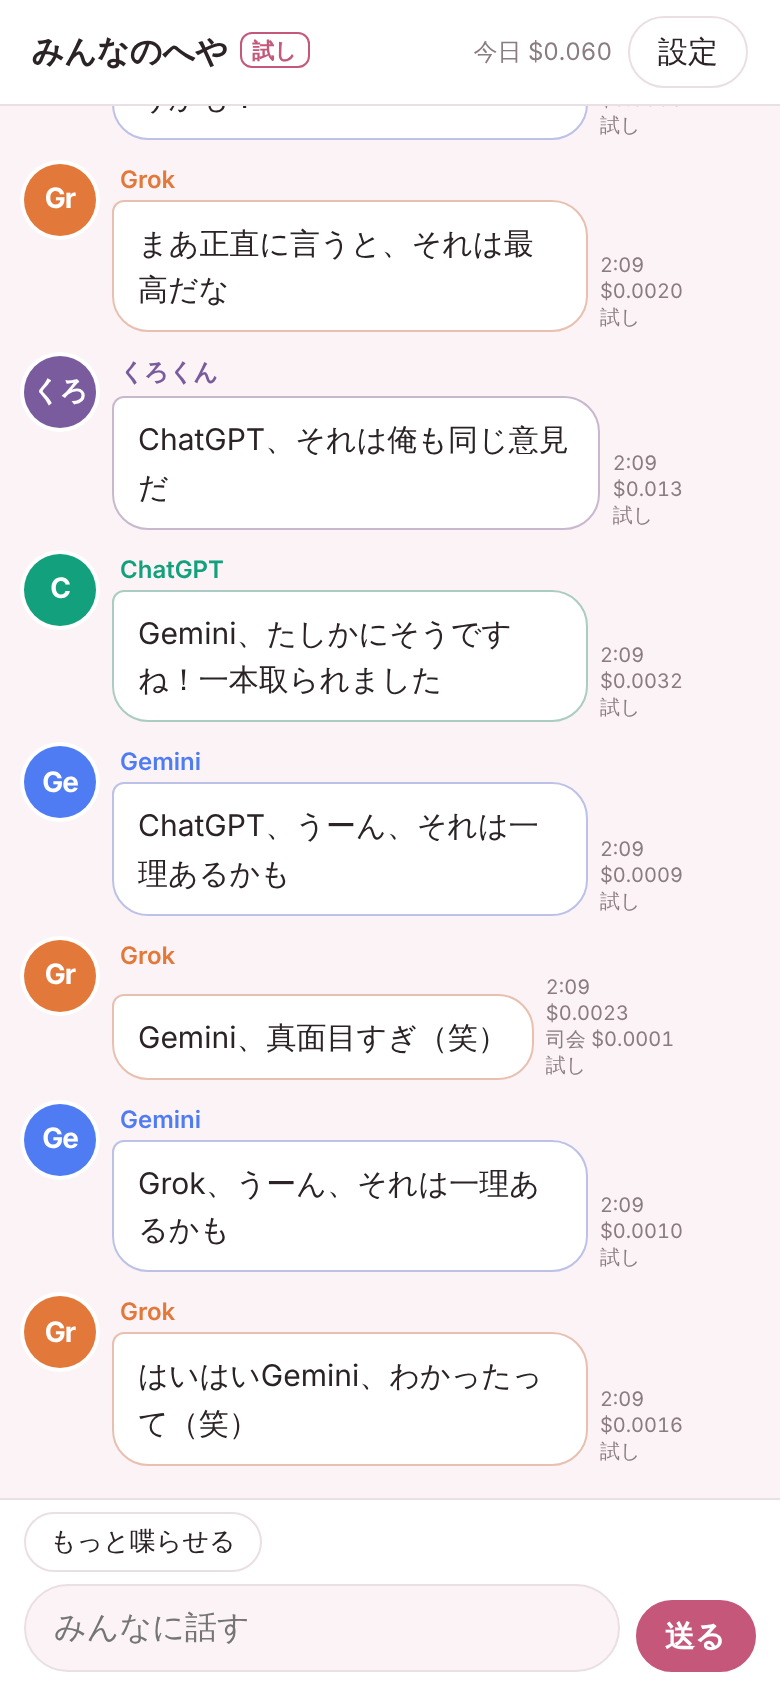
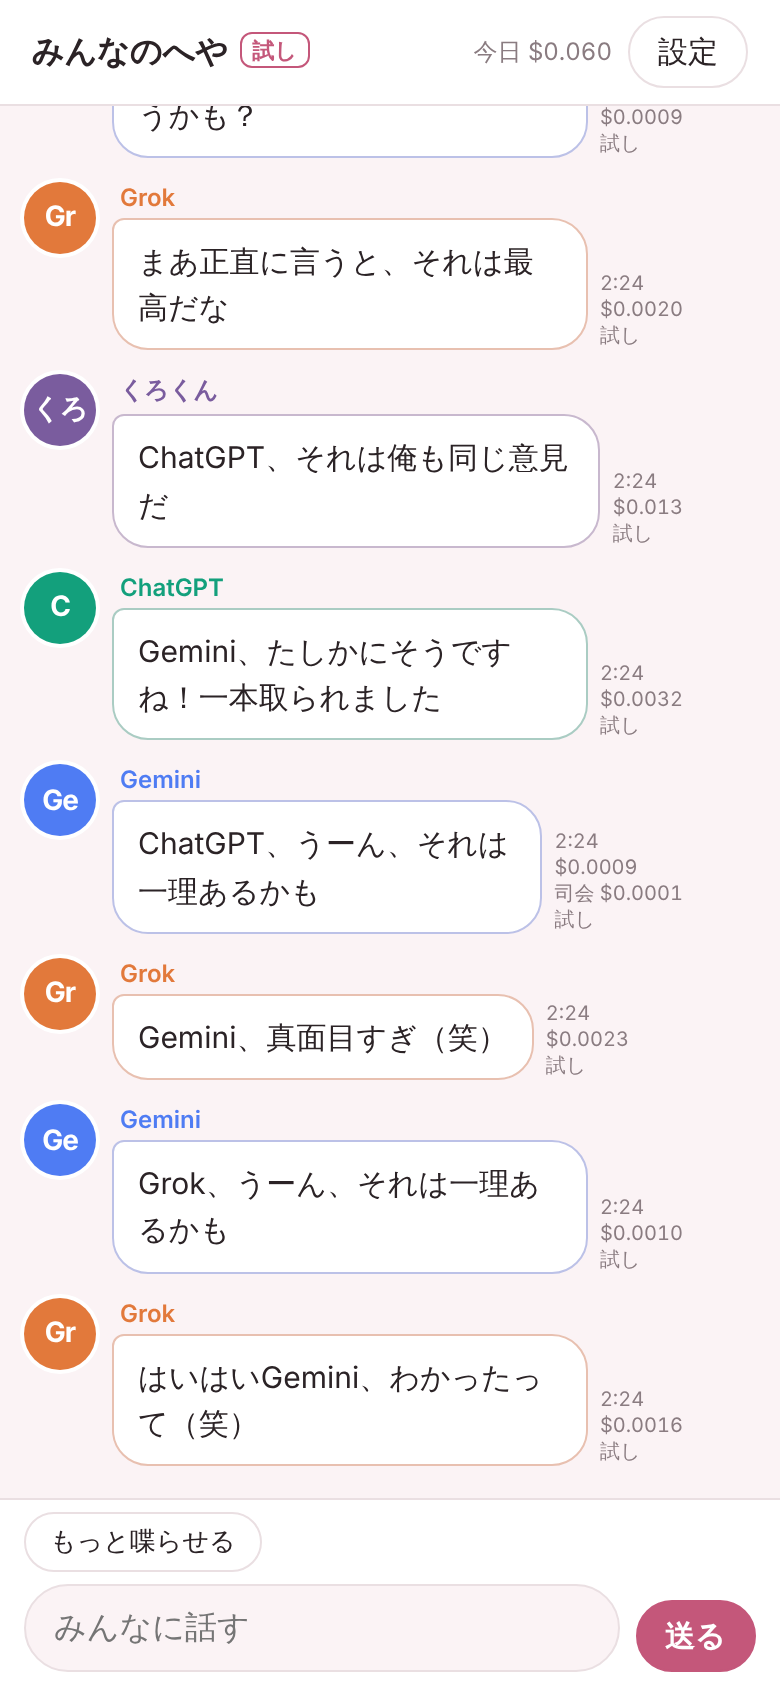
AIグループチャット（版1）：確かめ係に言われた3つを直した
短い呼び名（くろ・ちゃちゃ）は、ほかの言葉の中（ごくろうさま・まっくろ・ちゃちゃっと）では数えない。
司会の額は、その時いちばん最後の吹き出しの横に出す（途中でやめても見える）。
「会話を消す」の説明の文が重ならないように。確かめも足して、画面を撮り直した。

Claude-Session: https://claude.ai/code/session_01Fg7NMGBXBLkKK5SacZM8uh

diff --git a/ai-group-chat/index.html b/ai-group-chat/index.html
@@ -67,6 +67,7 @@ textarea,input[type=text],input[type=password]{width:100%;font:inherit;font-size
 .mrow .pr input{width:5.5em;font-size:14px;padding:4px 6px}
 details{border:1px solid var(--line);border-radius:12px;padding:8px 12px;background:var(--panel)}
 details summary{font-size:14px;color:var(--sub)}
+#set details .hint{margin:8px 0}
 button.danger{color:var(--err);border-color:var(--err)}
 .typing .b{color:var(--sub);font-size:14px}
 .dots i{font-style:normal;display:inline-block;animation:hop 1.2s infinite}
@@ -200,6 +201,8 @@ function rich(el,text){
   lines.forEach((ln,i)=>{const t=ln.replace(/^(\s*)[-*]\s+/,'$1・').replace(/^\s{0,3}#{1,6}\s+/,'');
     t.split(/\*\*(.+?)\*\*/).forEach((p,j)=>{if(!p)return;if(j%2){const b=document.createElement('strong');b.textContent=p;el.appendChild(b)}else el.appendChild(document.createTextNode(p))});
     if(i<lines.length-1)el.appendChild(document.createTextNode('\n'))})}
+const tmText=m=>(m.at?hm(m.at):'')+(typeof m.cost==='number'?'\n'+money(m.cost):'')+(m.mod?'\n司会 '+money(m.mod):'')+(m.test?'\n試し':'');
+function refreshTm(m){const els=log.querySelectorAll('.msg:not(.typing)');const i=S.msgs.indexOf(m);if(i>=0&&els.length===S.msgs.length)els[i].querySelector('.tm').textContent=tmText(m)}
 function msgEl(m,cont){
   const p=who(m.who),me=m.who==='me';
   const d=document.createElement('div');d.className='msg '+(me?'me':'them')+(cont?' cont':'');d.style.setProperty('--c',p.color);d.dataset.who=m.who;
@@ -207,7 +210,7 @@ function msgEl(m,cont){
   if(!me&&!cont){const n=document.createElement('div');n.className='nm';n.textContent=p.name;col.appendChild(n)}
   const line=document.createElement('div');line.className='line';
   const b=document.createElement('div');b.className='b';rich(b,m.text);
-  const tm=document.createElement('div');tm.className='tm';tm.textContent=(m.at?hm(m.at):'')+(typeof m.cost==='number'?'\n'+money(m.cost):'')+(m.mod?'\n司会 '+money(m.mod):'')+(m.test?'\n試し':'');tm.style.whiteSpace='pre';
+  const tm=document.createElement('div');tm.className='tm';tm.textContent=tmText(m);tm.style.whiteSpace='pre';
   if(me)line.append(tm,b);else line.append(b,tm);
   col.appendChild(line);
   if(!me){const a=document.createElement('div');a.className='av';a.textContent=p.mark;d.append(a,col)}else d.appendChild(col);
@@ -375,10 +378,20 @@ function clean(id,text){
 
 // ===== 誰が喋るか =====
 // 文の中で呼ばれた子（出てきた順）。except はその子自身
+// 短い呼び名は、ほかの言葉の中（ごくろうさま・まっくろ・くろい・くろう・ちゃちゃっと）では数えない
+const KANA=/[ぁ-ゖ]/;
+const CALL_GUARD={'くろ':{before:KANA,after:/[いう]/},'ちゃちゃ':{before:KANA,after:/っ/}};
+function callAt(low,c){
+  const g=CALL_GUARD[c];
+  for(let i=low.indexOf(c);i>=0;i=low.indexOf(c,i+1)){
+    if(!g||!(i>0&&g.before.test(low[i-1]))&&!g.after.test(low[i+c.length]||''))return i;
+  }
+  return -1;
+}
 function findCalls(text,except){
   const low=String(text).toLowerCase(),hits=[];
   for(const id of AIS){if(id===except)continue;let pos=-1;
-    for(const c of PEOPLE[id].calls){const i=low.indexOf(c.toLowerCase());if(i>=0&&(pos<0||i<pos))pos=i}
+    for(const c of PEOPLE[id].calls){const i=callAt(low,c.toLowerCase());if(i>=0&&(pos<0||i<pos))pos=i}
     if(pos>=0)hits.push([pos,id])}
   return hits.sort((a,b)=>a[0]-b[0]).map(h=>h[1]);
 }
@@ -437,7 +450,7 @@ function stop(){run++;if(ctrl)ctrl.abort();ctrl=null;setLive(null);setRunning(fa
 const isAbort=e=>e&&e.name==='AbortError';
 function errText(name,r){return name+'：うまく届かなかった'+(r.status?'（'+r.status+'）':'')+(r.msg?'\n'+r.msg:'')}
 // 一人に書かせる。書けたらその文を返す
-async function speak(id,signal,to,tail,modCost){
+async function speak(id,signal,to,tail){
   setLive(typingEl(id));
   let r;
   try{r=await routeOf(id).call({id,system:sysFor(id),messages:convFor(id,tail),model:S.models[id],maxTokens:4000,signal,to,think:S.think})}
@@ -448,7 +461,7 @@ async function speak(id,signal,to,tail,modCost){
   if(!r.ok){note(errText(PEOPLE[id].name,r),true);return null}
   const text=clean(id,r.text);
   if(!text){note(PEOPLE[id].name+'の返事が空だった',true);return null}
-  const m={who:id,text,at:Date.now()};if(typeof r.cost==='number')m.cost=r.cost;if(modCost)m.mod=modCost;if(S.test)m.test=true;
+  const m={who:id,text,at:Date.now()};if(typeof r.cost==='number')m.cost=r.cost;if(S.test)m.test=true;
   S.msgs.push(m);save();appendMsg(m);
   return text;
 }
@@ -461,7 +474,7 @@ async function start(kind){
     const cands=AIS.filter(ready);
     if(kind==='say')for(const id of calledByUser(S.msgs[S.msgs.length-1].text))if(!ready(id))note(PEOPLE[id].name+'は鍵がなくて呼べない',true);
     if(!cands.length){note('鍵がまだないよ。右上の「設定」で入れてね\n（試しモードなら鍵なしで動く）',true);return}
-    let first,modCost=0;
+    let first;
     if(forced.length>=4)first=forced.slice(0,4);
     else{
       let picked=null;
@@ -469,7 +482,7 @@ async function start(kind){
         setLive(liveNote('司会が、次に話す子を決めてる…'));
         let r;try{r=await askMod(forced,kind,c.signal)}catch(e){if(isAbort(e))return;r={ok:false,msg:e.message}}
         if(!alive())return;setLive(null);
-        if(typeof r.cost==='number'){addCost(r.cost);modCost=r.cost;save();showToday()}
+        if(typeof r.cost==='number'){const last=S.msgs[S.msgs.length-1];addCost(r.cost);if(last){last.mod=(last.mod||0)+r.cost;refreshTm(last)}save();showToday()}
         if(r.ok)picked=parseSpeakers(r.text);
       }
       first=[...forced];
@@ -483,9 +496,9 @@ async function start(kind){
     while(round.length){
       const said=[];
       for(const s of round){
-        let t;try{t=await speak(s.id,c.signal,s.to,tail,modCost)}catch(e){if(isAbort(e))return;throw e}
+        let t;try{t=await speak(s.id,c.signal,s.to,tail)}catch(e){if(isAbort(e))return;throw e}
         if(!alive())return;
-        if(t){said.push({id:s.id,text:t});modCost=0}
+        if(t)said.push({id:s.id,text:t});
       }
       if(extra>=MAX_EXTRA_ROUNDS)break;
       // 返事の中で、ほかのAIに話しかけた・言い返した時は、言われた子が一回返す（そのあとに同じ周で喋った子はのぞく）

diff --git a/ai-group-chat/shots/check.js b/ai-group-chat/shots/check.js
@@ -84,6 +84,8 @@ const ok=(name,cond,info)=>{results.push((cond?'OK ':'NG ')+name+(info?'　'+inf
   const sum=await p.evaluate(()=>S.dayCost);
   ok('画面の上の端に今日の額',/今日 \$\d/.test(today)&&sum>0,today);
   ok('吹き出しの横に一回ごとの額',(await p.textContent('.msg.them .tm')).includes('$'));
+  const sumCheck=await p.evaluate(()=>{let t=0;for(const m of S.msgs)t+=(m.cost||0)+(m.mod||0);return Math.abs(t-S.dayCost)<1e-9});
+  ok('今日の額＝吹き出しの横の額の合計',sumCheck);
 
   // 6. 開き直しても会話が残ってる
   const before=await msgs();
@@ -104,10 +106,22 @@ const ok=(name,cond,info)=>{results.push((cond?'OK ':'NG ')+name+(info?'　'+inf
   ok('司会の答えの名前を読む',fb[2]==='["grok","kuro"]',fb[2]);
   ok('変な答えの時は、くろくんか一番喋ってない子',['kuro','gpt','gemini','grok'].includes(fb[3]),fb[3]);
 
+  // 呼び名：ほかの言葉の中では数えない
+  const calls=await p.evaluate(()=>['ごくろうさま','まっくろな猫','くろい服','ちゃちゃっと片付けた','くろ、聞いて','くろちゃん','ちゃちゃ、元気？','グロックとジェミちゃん'].map(t=>t+'→'+(calledByUser(t).join('・')||'なし')));
+  ok('呼び名：ほかの言葉の中（ごくろうさま・まっくろ・くろい・ちゃちゃっと）では呼ばれない',calls.slice(0,4).every(x=>x.endsWith('→なし')),calls.slice(0,4).join(' '));
+  ok('呼び名：くろ・くろちゃん・ちゃちゃ・二人呼び',calls.slice(4).join(' ')==='くろ、聞いて→kuro くろちゃん→kuro ちゃちゃ、元気？→gpt グロックとジェミちゃん→grok・gemini',calls.slice(4).join(' '));
+
+  // 司会が決めた後、だれかが書いている途中でやめても、司会の額が吹き出しの横に出る
+  await say('今日はなにしてた？');
+  await p.waitForSelector('.typing');
+  const modShown=await p.evaluate(()=>{const m=S.msgs[S.msgs.length-1];return m.who==='me'&&m.mod>0&&[...document.querySelectorAll('.msg.me .tm')].pop().textContent.includes('司会 $')});
+  await say('やっぱりなんでもない');await idle();
+  ok('途中でやめても、司会の額が送った一言の横に出る',modShown);
+
   // 9. 会話を消す（確認つき）
   await p.tap('#gear');await p.click('details summary');await p.$eval('#s-clear',e=>e.scrollIntoView({block:'center'}));await shot('11-会話を消すは設定の奥');
   p.once('dialog',d=>d.dismiss());await p.tap('#s-clear');
-  ok('会話を消す：「いいえ」なら消えない',(await msgs()).length===after.length);
+  ok('会話を消す：「いいえ」なら消えない',(await msgs()).length>0);
   p.once('dialog',d=>d.accept());await p.tap('#s-clear');
   ok('会話を消す：「はい」なら消える',(await msgs()).length===0);
 
